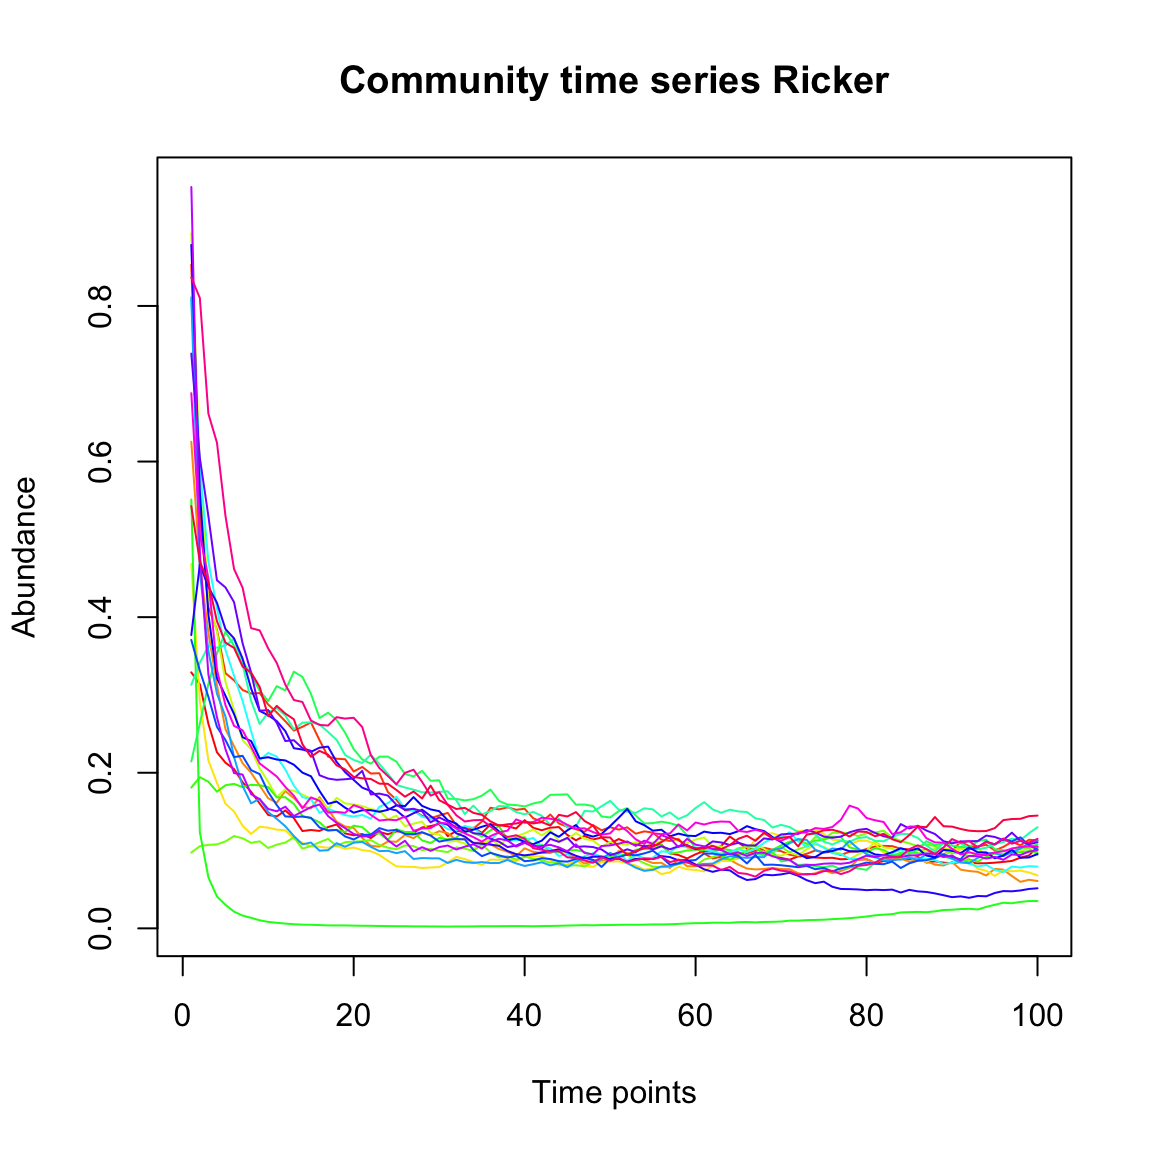
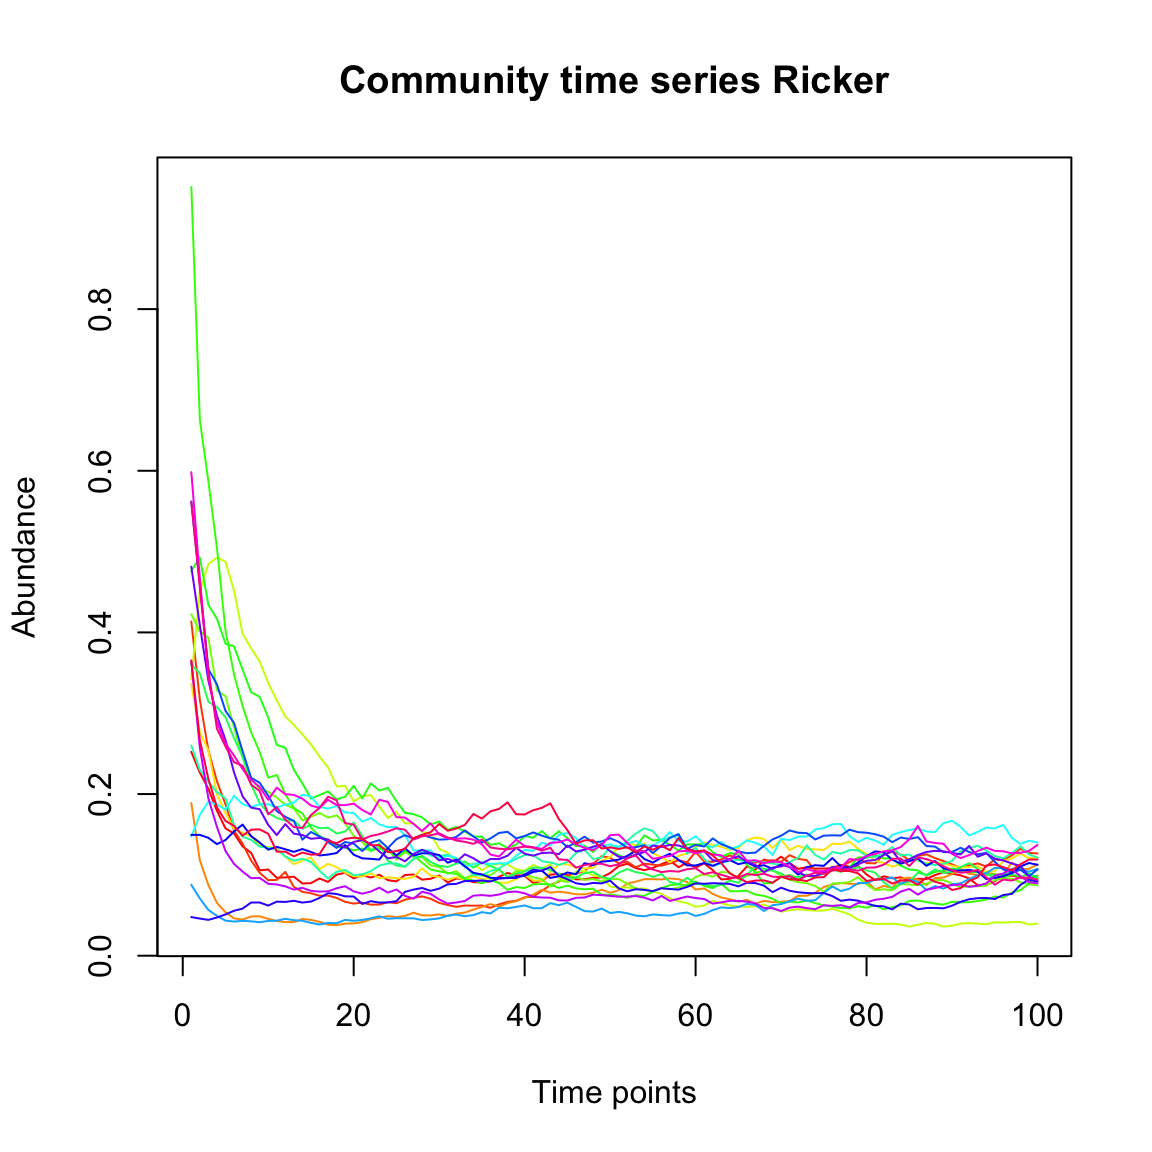
Adjusted text concerning neutral dynamics in the network inference tutorial.

diff --git a/docs/articles/network_inference.html b/docs/articles/network_inference.html
@@ -57,7 +57,7 @@
       <h1>Network inference with LIMITS</h1>
                         <h4 class="author">Karoline Faust</h4>
             
-            <h4 class="date">2018-04-17</h4>
+            <h4 class="date">2018-04-30</h4>
           </div>
 
     
@@ -78,16 +78,18 @@ A=<span class="kw"><a href="../reference/generateA.html">generateA</a></span>(N,
 <span class="kw">colnames</span>(A)=<span class="kw">rownames</span>(A)</code></pre></div>
 <p>Below, we plot our known interaction matrix. Green entries stand for a positive interaction of species i with species j, whereas red entries stand for a negative interaction of species i with species j (where i and j are row and column indices, respectively). For instance, a competition consists of two red entries for the negative impact of species i on j and species j on i. The diagonal is entirely red, since the interaction matrix is generated by default with negative values on the diagonal, which represent intra-species competition.</p>
 <div class="sourceCode"><pre class="sourceCode r"><code class="sourceCode r"><span class="kw"><a href="../reference/plotA.html">plotA</a></span>(A, <span class="dt">header=</span><span class="st">"Known interaction matrix"</span>)</code></pre></div>
-<pre><code>## [1] "Largest value: 0.492037953808904"
+<pre><code>## [1] "Largest value: 0.473276196280494"
 ## [1] "Smallest value: -0.5"</code></pre>
 <p><img src="figure_network_inference/unnamed-chunk-3-1.png" width="576"></p>
 <p>We can also visualize the interaction matrix as a network. In contrast to correlation networks, the network is directed. Thus, it can represent asymmetric ecological relationships. For example, consider a parasitic relationship, where species i benefits at the cost of species j. It would be represented in the matrix by a positive entry in row i and column j and a negative entry in row j and column i. In the directed network, this parasitic relationship would correspond to two arcs, one from species i to species j and a reverse one from species j to species i. The negative diagonal entries are represented as self-loops.</p>
 <div class="sourceCode"><pre class="sourceCode r"><code class="sourceCode r">network=<span class="kw"><a href="../reference/plotA.html">plotA</a></span>(A,<span class="dt">method=</span><span class="st">"network"</span>)</code></pre></div>
-<pre><code>## [1] "Largest value: 0.492037953808904"
+<pre><code>## [1] "Largest value: 0.473276196280494"
 ## [1] "Smallest value: -0.5"
 ## [1] "Initial edge number 58"
 ## [1] "Initial connectance 0.1"
-## [1] "Final connectance: 0.1"</code></pre>
+## [1] "Final connectance: 0.111111111111111"</code></pre>
+<pre><code>## Warning in vattrs[[name]][index] &lt;- value: number of items to replace is
+## not a multiple of replacement length</code></pre>
 <p><img src="figure_network_inference/unnamed-chunk-4-1.png" width="576"></p>
 <div class="sourceCode"><pre class="sourceCode r"><code class="sourceCode r"><span class="co"># use igraph's function tkplot for manual layout of the network</span></code></pre></div>
 <p>Given our interaction matrix, we can now simulate a test time series with the Ricker community model.</p>
@@ -100,37 +102,37 @@ A=<span class="kw"><a href="../reference/generateA.html">generateA</a></span>(N,
 <p>To compare the known and inferred interaction matrix, we can plot them next to each other:</p>
 <div class="sourceCode"><pre class="sourceCode r"><code class="sourceCode r"><span class="kw">par</span>(<span class="dt">mfrow=</span><span class="kw">c</span>(<span class="dv">1</span>,<span class="dv">2</span>))
 <span class="kw"><a href="../reference/plotA.html">plotA</a></span>(A,<span class="dt">header=</span><span class="st">"known"</span>)</code></pre></div>
-<pre><code>## [1] "Largest value: 0.492037953808904"
+<pre><code>## [1] "Largest value: 0.473276196280494"
 ## [1] "Smallest value: -0.5"</code></pre>
 <div class="sourceCode"><pre class="sourceCode r"><code class="sourceCode r"><span class="kw"><a href="../reference/plotA.html">plotA</a></span>(Aest,<span class="dt">header=</span><span class="st">"inferred"</span>)</code></pre></div>
-<pre><code>## [1] "Largest value: 1.07027913986759"
-## [1] "Smallest value: -2.11039554211048"</code></pre>
+<pre><code>## [1] "Largest value: 1.42783866904541"
+## [1] "Smallest value: -2.48246010973795"</code></pre>
 <p><img src="figure_network_inference/unnamed-chunk-7-1.png" width="576"></p>
 <div class="sourceCode"><pre class="sourceCode r"><code class="sourceCode r"><span class="kw">par</span>(<span class="dt">mfrow=</span><span class="kw">c</span>(<span class="dv">1</span>,<span class="dv">1</span>))</code></pre></div>
 <p>We can also compute the mean cross-correlation of the known and inferred interaction matrix:</p>
 <div class="sourceCode"><pre class="sourceCode r"><code class="sourceCode r">crossCor=<span class="kw">cor</span>(A,Aest)
 <span class="kw">mean</span>(<span class="kw">diag</span>(crossCor), <span class="dt">na.rm=</span><span class="ot">TRUE</span>)</code></pre></div>
-<pre><code>## [1] 0.7642043</code></pre>
+<pre><code>## [1] 0.6942384</code></pre>
 <p>Finally, we can plot a few quality estimators for the interaction matrix inference. The quality plot displays the correlation between current and future time points one to five steps ahead (autocor) and the correlation between the original time series and a time series generated from the inferred interaction matrix step by step (cor). We can see that the predicted time series barely outperforms lag-one auto-correlation.</p>
 <div class="sourceCode"><pre class="sourceCode r"><code class="sourceCode r">limitsqual=<span class="kw"><a href="../reference/limitsQuality.html">limitsQuality</a></span>(out.ricker,<span class="dt">A=</span>Aest,<span class="dt">plot=</span><span class="ot">TRUE</span>)</code></pre></div>
 <pre><code>## [1] "Applying Schur decomposition"
-## [1] "Initial edge number 45"
-## [1] "Initial connectance 0.0657894736842105"
-## [1] "Final connectance: 0.305263157894737"</code></pre>
+## [1] "Initial edge number 53"
+## [1] "Initial connectance 0.0868421052631579"
+## [1] "Final connectance: 0.58421052631579"</code></pre>
 <p><img src="figure_network_inference/unnamed-chunk-9-1.png" width="576"></p>
-<p>For comparison, we now generate a neutral time series with the Hubbell model. This model does not take species interactions into account and hence does not take the interaction matrix A as an input.</p>
+<p>For comparison, we now generate a neutral time series with the Hubbell model. This model does not take species interactions into account explicitly (though implicitly there is a competition between all species) and hence does not take the interaction matrix A as an input.</p>
 <div class="sourceCode"><pre class="sourceCode r"><code class="sourceCode r">out.hubbell=<span class="kw"><a href="../reference/simHubbell.html">simHubbell</a></span>(<span class="dt">N=</span>N, <span class="dt">M=</span>N,<span class="dt">I=</span><span class="dv">1500</span>,<span class="dt">d=</span>N, <span class="dt">m=</span><span class="fl">0.1</span>, <span class="dt">tskip=</span><span class="dv">500</span>, <span class="dt">tend=</span><span class="dv">1000</span>)
 <span class="kw"><a href="../reference/tsplot.html">tsplot</a></span>(out.hubbell,<span class="dt">header=</span><span class="st">"Hubbell"</span>)</code></pre></div>
 <p><img src="figure_network_inference/unnamed-chunk-10-1.png" width="576"></p>
 <p>We infer an interaction matrix from the neutral time series:</p>
 <div class="sourceCode"><pre class="sourceCode r"><code class="sourceCode r">Aesth=<span class="kw"><a href="../reference/limits.html">limits</a></span>(out.hubbell)$Aest</code></pre></div>
 <pre><code>## [1] "Time series has 20 taxa"</code></pre>
-<p>The quality plot shows that the inferred interaction matrix leads to a high cross-correlation between predicted and original time series, even though the model underlying the original time series does not feature an interaction matrix. Thus, a high correlation between predicted and original time series can be misleading as an indicator for the quality of the inferred interaction matrix.</p>
+<p>The quality plot shows that the inferred interaction matrix leads to a high cross-correlation between predicted and original time series, even though the dynamics in the neutral time series is not determined by species-specific interactions (all interactions are negative and of equal strength, since no species has an advantage over another in the competition for a space in the local community). Thus, a high correlation between predicted and original time series can be misleading as an indicator for the quality of the inferred interaction matrix.</p>
 <div class="sourceCode"><pre class="sourceCode r"><code class="sourceCode r">limitsqualh=<span class="kw"><a href="../reference/limitsQuality.html">limitsQuality</a></span>(out.hubbell,<span class="dt">A=</span>Aesth, <span class="dt">plot=</span><span class="ot">TRUE</span>)</code></pre></div>
 <pre><code>## [1] "Applying Schur decomposition"
-## [1] "Initial edge number 49"
-## [1] "Initial connectance 0.0763157894736842"
-## [1] "Final connectance: 0.718421052631579"</code></pre>
+## [1] "Initial edge number 43"
+## [1] "Initial connectance 0.0605263157894737"
+## [1] "Final connectance: 0.144736842105263"</code></pre>
 <p><img src="figure_network_inference/unnamed-chunk-12-1.png" width="576"></p>
 </div>
   </div>
